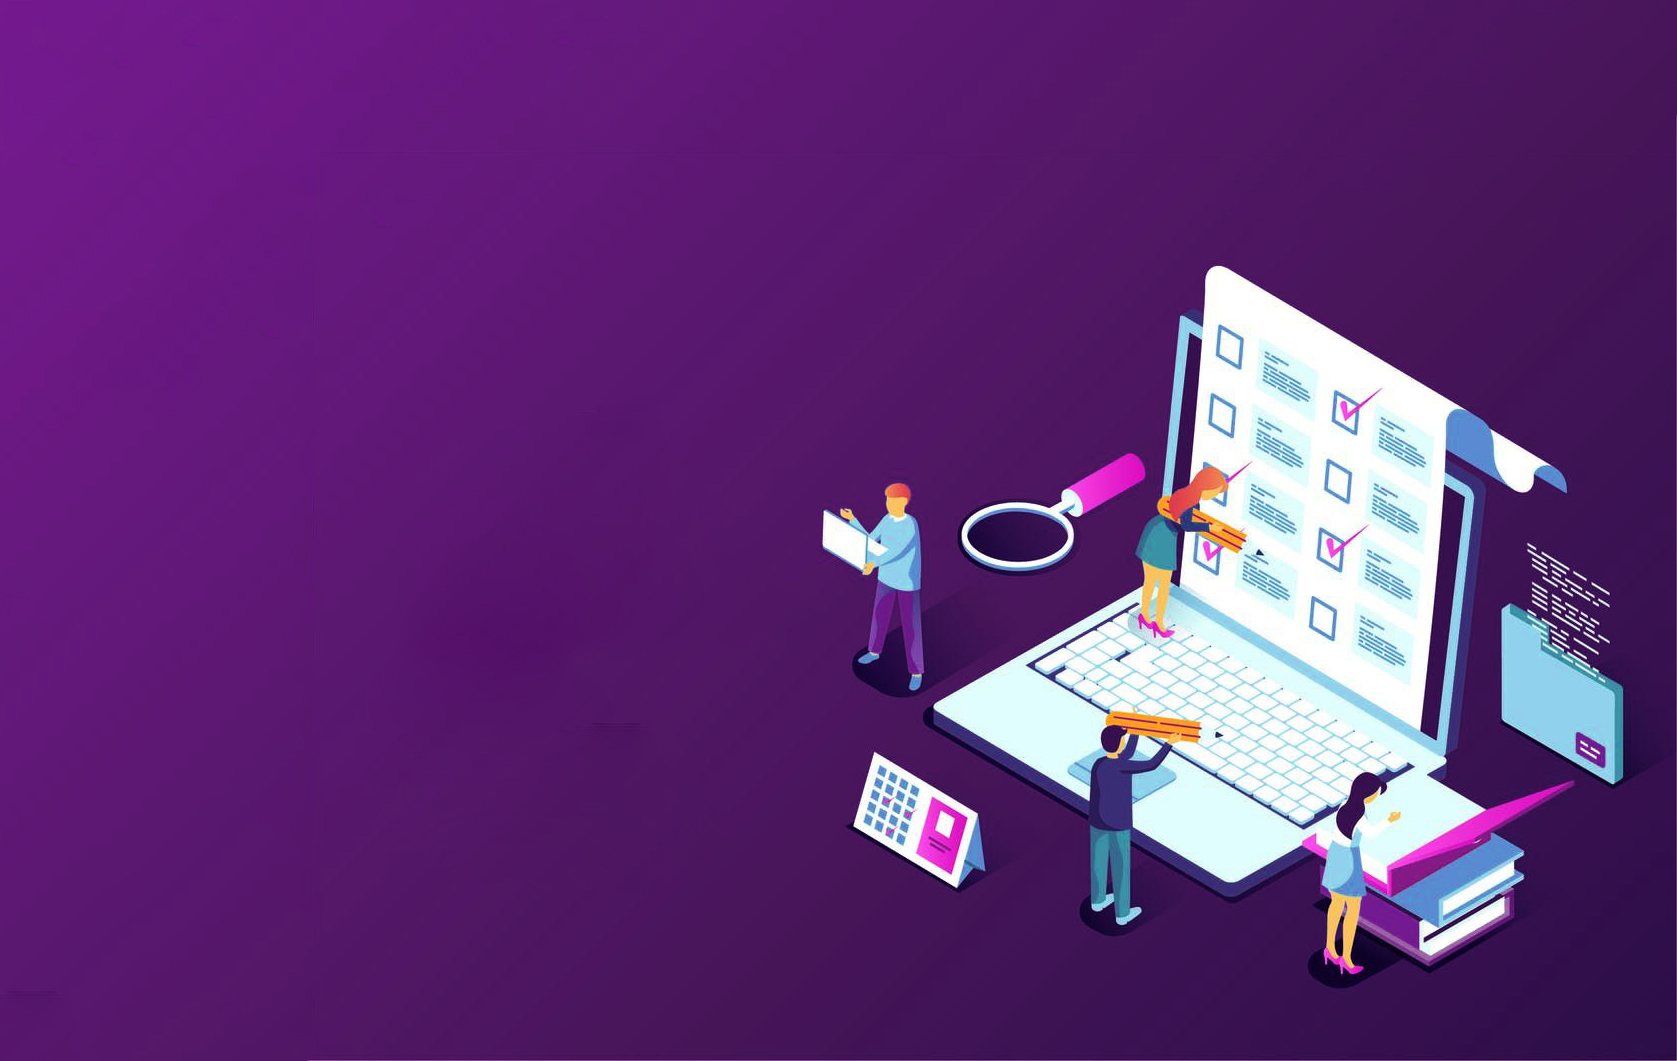
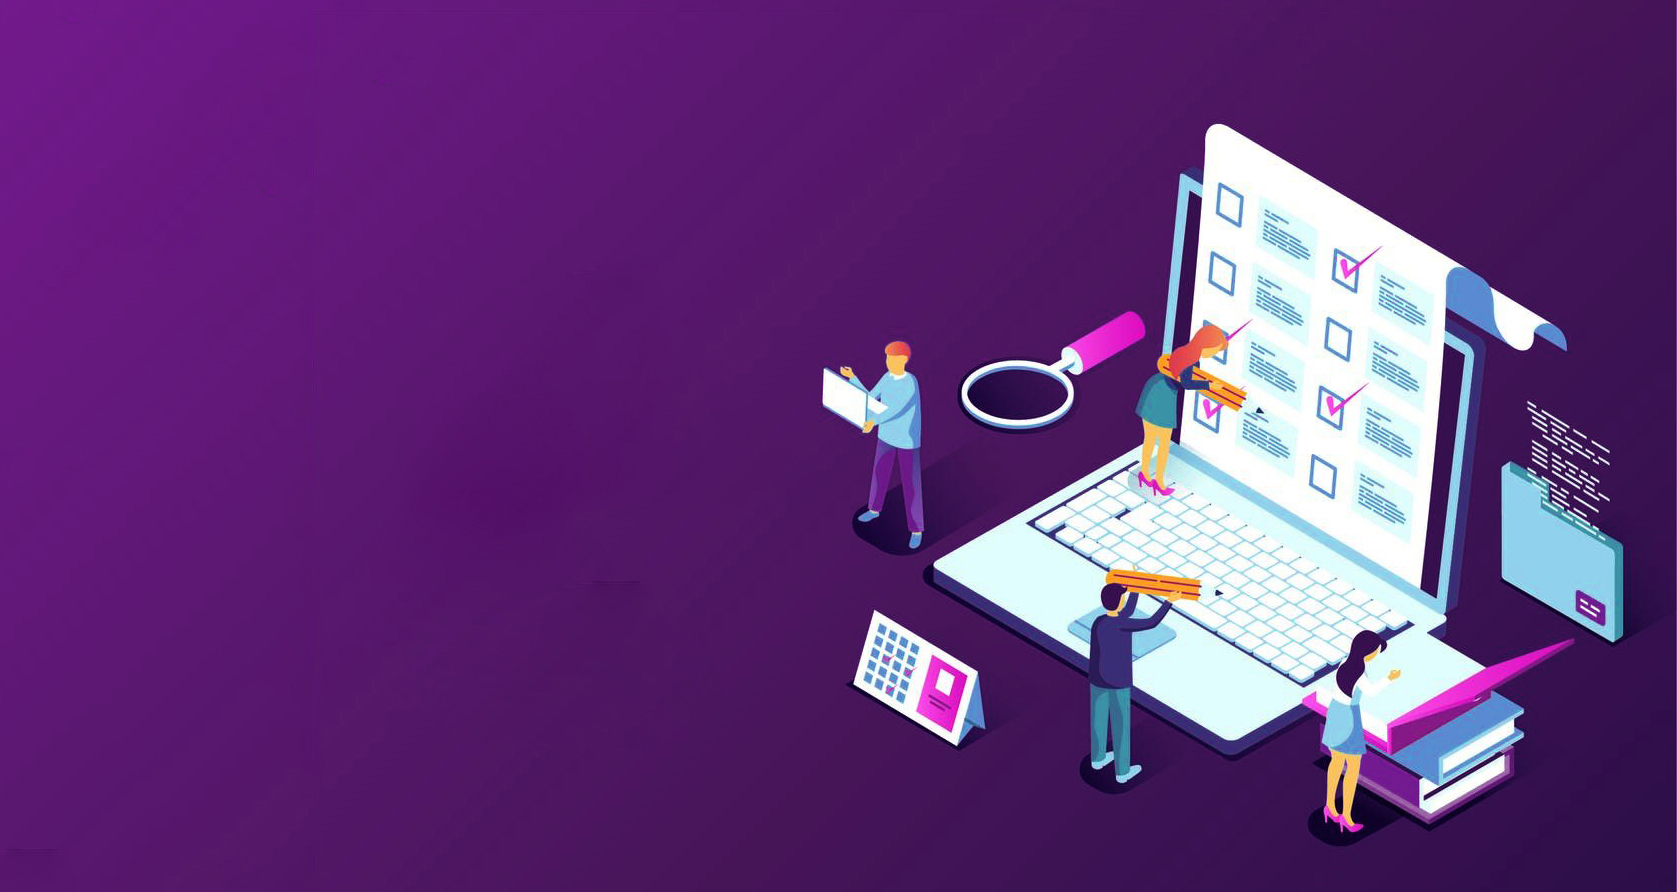
header Bild

diff --git a/fusion-opl/assets/css/main.css b/fusion-opl/assets/css/main.css
@@ -828,14 +828,17 @@ hr {
 3. Hero Area
 ========================================================================== */
 #hero-area {
-  background-image: url(../img/hero-area.svg);
+  background-image: url(../img/smartformBild.jpg);
   background-position: center center;
   background-repeat: no-repeat;
   background-size: cover;
   min-height: 650px;
   position: relative;
   overflow: hidden;
-  padding: 180px 0 80px;
+ padding: 280px 0 80px;
+padding-bottom: 300px;
+border-bottom-left-radius: 90px;
+border-bottom-right-radius: 90px;
 }
 
 #hero-area .head-title {
